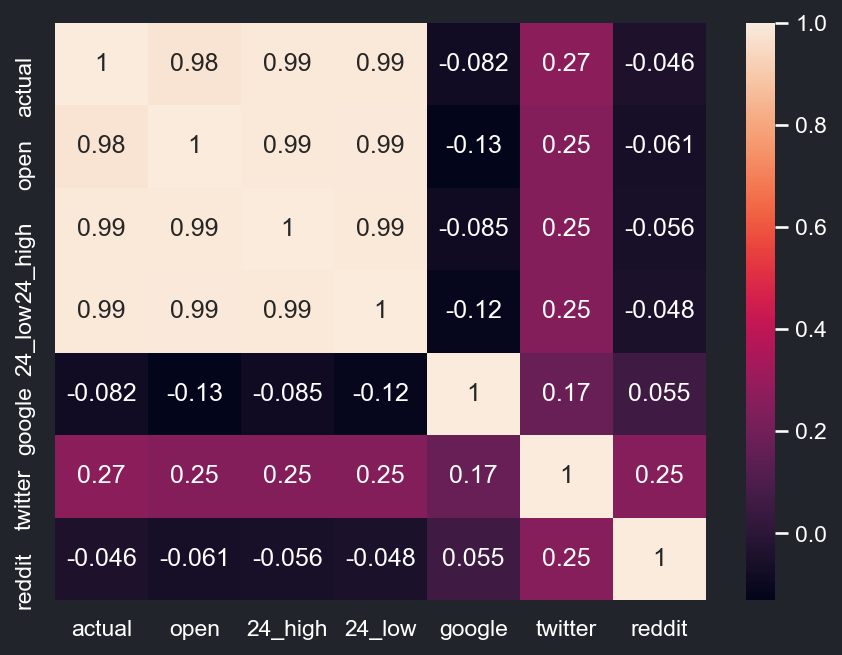
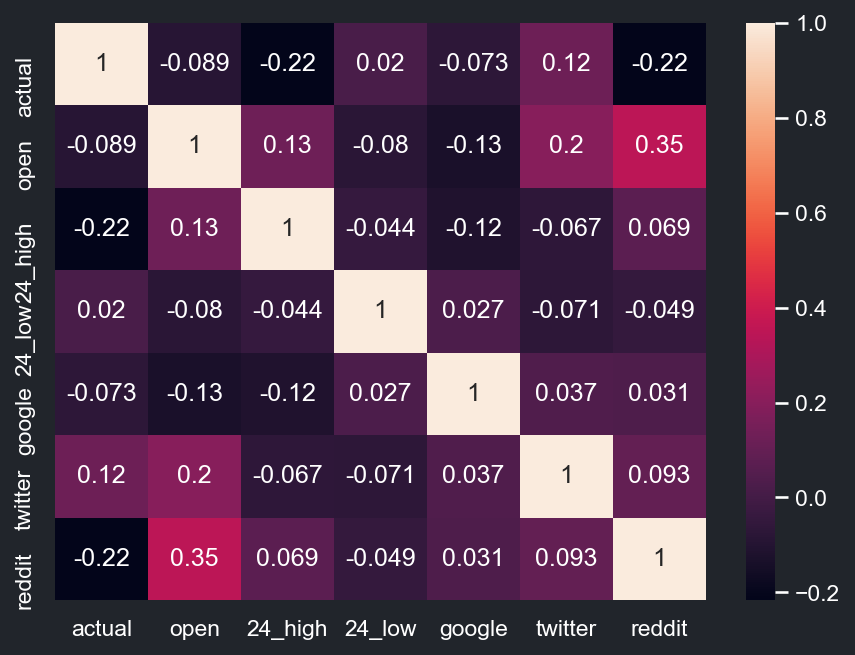
Data Analysis Graphs UD

diff --git a/admin/main.py b/admin/main.py
@@ -153,6 +153,7 @@ class MainWindow(QMainWindow):
         # TEST PAGE
         widgets.testContent.setCurrentWidget(widgets.testingPage)
         widgets.btn_viewDataAnalysis.hide()
+        self.analyze_crypto = str(widgets.testCryptoCombo.currentText())
 
         # DEPLOY PAGE
         widgets.deployPriceCombo.addItems(['Closing', 'High', 'Low'])
@@ -297,6 +298,7 @@ class MainWindow(QMainWindow):
 
         # DATA ANALYSIS
         widgets.btn_viewDataAnalysis.clicked.connect(self.show_data_analysis)
+        widgets.testCryptoCombo.currentTextChanged.connect(self.get_crypto_analyze)
 
 
     def deploySignals(self):
@@ -580,47 +582,64 @@ class MainWindow(QMainWindow):
         widgets.btn_proceed.setEnabled(True)
 
 
+    def get_crypto_analyze(self, value):
+        self.analyze_crypto = str(value)
+        print(self.analyze_crypto)
+
+        self.show_data_analysis()
+
+
     def show_data_analysis(self):
         widgets.testContent.setCurrentWidget(widgets.dataAnalysisPage)
         widgets.btn_viewDataAnalysis.hide()
 
+        crypto_df = pd.DataFrame()
+
+        if self.analyze_crypto.startswith('Bitcoin') == True:
+            crypto_df = pd.read_csv("csv/BTC_Sample.csv")
+
+        if self.analyze_crypto.startswith('Ethereum') == True:
+            crypto_df = pd.read_csv("csv/ETH_Sample.csv")
+        
+        if self.analyze_crypto.startswith('Dogecoin') == True:
+            crypto_df = pd.read_csv("csv/DOGE_Sample.csv")
+
         # CORRELATION
-        BTC_data = pd.read_csv("csv/BTC_Sample.csv")
-        corr_analysis(BTC_data)
+        corr_analysis(crypto_df)
 
         # Create Graph
-        widgets.corrAnalysisGraph = QLabel(widgets.corrAnalysisGraphFrame)
+        # widgets.corrAnalysisGraph = QLabel(widgets.corrAnalysisGraphFrame)
         pixmap = QPixmap('images/corr.png')
         pixmap = pixmap.scaled(471, 324, Qt.KeepAspectRatioByExpanding, Qt.FastTransformation)
         widgets.corrAnalysisGraph.setPixmap(pixmap)
         # self.resize(pixmap.width(),pixmap.height())Qt.IgnoreAspectRatio,
 
-        widgets.verticalLayout_corr = QVBoxLayout(widgets.corrAnalysisGraphFrame)
-        widgets.verticalLayout_corr.setSpacing(0)
-        widgets.verticalLayout_corr.setObjectName(u"verticalLayout_corr")
-        widgets.verticalLayout_corr.setContentsMargins(0, 0, 0, 0)
+        # widgets.verticalLayout_corr = QVBoxLayout(widgets.corrAnalysisGraphFrame)
+        # widgets.verticalLayout_corr.setSpacing(0)
+        # widgets.verticalLayout_corr.setObjectName(u"verticalLayout_corr")
+        # widgets.verticalLayout_corr.setContentsMargins(0, 0, 0, 0)
 
-        widgets.verticalLayout_corr.addWidget(widgets.corrAnalysisGraph)
+        # widgets.verticalLayout_corr.addWidget(widgets.corrAnalysisGraph)
         
 
         # CONFUSION MATRIX
-        class_df = classification_analysis(BTC_data)
+        class_df = classification_analysis(crypto_df)
 
         # Create Graph
-        widgets.conMatrixGraph = QLabel(widgets.conMatrixGraphFrame)
+        # widgets.conMatrixGraph = QLabel(widgets.conMatrixGraphFrame)
         pixmap = QPixmap('images/conf.png')
         pixmap = pixmap.scaled(471, 324, Qt.KeepAspectRatioByExpanding, Qt.FastTransformation)
         widgets.conMatrixGraph.setPixmap(pixmap)
         # self.resize(pixmap.width(),pixmap.height())Qt.IgnoreAspectRatio,
 
-        widgets.verticalLayout_conf = QVBoxLayout(widgets.conMatrixGraphFrame)
-        widgets.verticalLayout_conf.setSpacing(0)
-        widgets.verticalLayout_conf.setObjectName(u"verticalLayout_corr")
-        widgets.verticalLayout_conf.setContentsMargins(0, 0, 0, 0)
+        # widgets.verticalLayout_conf = QVBoxLayout(widgets.conMatrixGraphFrame)
+        # widgets.verticalLayout_conf.setSpacing(0)
+        # widgets.verticalLayout_conf.setObjectName(u"verticalLayout_corr")
+        # widgets.verticalLayout_conf.setContentsMargins(0, 0, 0, 0)
 
-        widgets.verticalLayout_conf.addWidget(widgets.conMatrixGraph, alignment=Qt.AlignCenter)
+        # widgets.verticalLayout_conf.addWidget(widgets.conMatrixGraph, alignment=Qt.AlignCenter)
         
-        del BTC_data
+        del crypto_df
 
 
     def show_terminal(self):

diff --git a/admin/modules/ui_main.py b/admin/modules/ui_main.py
@@ -2675,12 +2675,13 @@ class Ui_MainWindow(object):
         # self.corrAnalysisGraph.setBackgroundBrush(brush)
         # # self.predGraph = MatplotlibWidget(width=3, height=3)
 
-        # self.verticalLayout_corr = QVBoxLayout(self.corrAnalysisGraphFrame)
-        # self.verticalLayout_corr.setSpacing(0)
-        # self.verticalLayout_corr.setObjectName(u"verticalLayout_corr")
-        # self.verticalLayout_corr.setContentsMargins(0, 0, 0, 0)
+        self.corrAnalysisGraph = QLabel(self.corrAnalysisGraphFrame)
+        self.verticalLayout_corr = QVBoxLayout(self.corrAnalysisGraphFrame)
+        self.verticalLayout_corr.setSpacing(0)
+        self.verticalLayout_corr.setObjectName(u"verticalLayout_corr")
+        self.verticalLayout_corr.setContentsMargins(0, 0, 0, 0)
 
-        # self.verticalLayout_corr.addWidget(self.corrAnalysisGraph)
+        self.verticalLayout_corr.addWidget(self.corrAnalysisGraph)
 
         self.verticalLayout_91.addWidget(self.corrAnalysisGraphFrame)
 
@@ -2727,12 +2728,13 @@ class Ui_MainWindow(object):
         # self.conMatrixGraph.setBackgroundBrush(brush)
         # # self.predGraph = MatplotlibWidget(width=3, height=3)
 
-        # self.verticalLayout_conf = QVBoxLayout(self.conMatrixGraphFrame)
-        # self.verticalLayout_conf.setSpacing(0)
-        # self.verticalLayout_conf.setObjectName(u"verticalLayout_conf")
-        # self.verticalLayout_conf.setContentsMargins(0, 0, 0, 0)
+        self.conMatrixGraph = QLabel(self.conMatrixGraphFrame)
+        self.verticalLayout_conf = QVBoxLayout(self.conMatrixGraphFrame)
+        self.verticalLayout_conf.setSpacing(0)
+        self.verticalLayout_conf.setObjectName(u"verticalLayout_conf")
+        self.verticalLayout_conf.setContentsMargins(0, 0, 0, 0)
 
-        # self.verticalLayout_conf.addWidget(self.conMatrixGraph)
+        self.verticalLayout_conf.addWidget(self.conMatrixGraph, alignment=Qt.AlignCenter)
 
         self.verticalLayout_92.addWidget(self.conMatrixGraphFrame)
 
@@ -3487,7 +3489,7 @@ class Ui_MainWindow(object):
         # fig = grph.get_figure()
         # fig.savefig('images/corr.png', dpi=96)
 
-        # widgets.corrAnalysisGraphFrame.setStyleSheet(u"background-image: url(:/images/images/corr.png); background-repeat: no-repeat; background-position: center;")
+        # self.corrAnalysisGraphFrame.setStyleSheet(u"background-image: url(:/images/images/corr.png); background-repeat: no-repeat; background-position: center;")
         # correlogram = ViewBox()
         # correlogram.invertY(True)
         # imageItem = ImageItem(image=corrMatrix)
@@ -3517,17 +3519,17 @@ class Ui_MainWindow(object):
         # bar = ColorBarItem( values=(-1,1), colorMap=colorMap)
         # bar.setImageItem(imageItem, insert_in=plotItem)
         
-        # # widgets.corrAnalysisGraph.plotItem(plotItem)
+        # # self.corrAnalysisGraph.plotItem(plotItem)
 
-        # widgets.corrAnalysisGraph = PlotWidget(widgets.corrAnalysisGraphFrame, plotItem=plotItem)
+        # self.corrAnalysisGraph = PlotWidget(self.corrAnalysisGraphFrame, plotItem=plotItem)
         # brush = QBrush(QColor(44, 49, 58, 1))
         # brush.setStyle(Qt.NoBrush)
-        # widgets.corrAnalysisGraph.setBackgroundBrush(brush)
+        # self.corrAnalysisGraph.setBackgroundBrush(brush)
 
-        # widgets.verticalLayout_corr = QVBoxLayout(widgets.corrAnalysisGraphFrame)
-        # widgets.verticalLayout_corr.setSpacing(0)
-        # widgets.verticalLayout_corr.setObjectName(u"verticalLayout_corr")
-        # widgets.verticalLayout_corr.setContentsMargins(0, 0, 0, 0)
+        # self.verticalLayout_corr = QVBoxLayout(self.corrAnalysisGraphFrame)
+        # self.verticalLayout_corr.setSpacing(0)
+        # self.verticalLayout_corr.setObjectName(u"verticalLayout_corr")
+        # self.verticalLayout_corr.setContentsMargins(0, 0, 0, 0)
 
-        # widgets.verticalLayout_corr.addWidget(widgets.corrAnalysisGraph)
-        # widgets.corrAnalysisGraph.show()
+        # self.verticalLayout_corr.addWidget(self.corrAnalysisGraph)
+        # self.corrAnalysisGraph.show()
